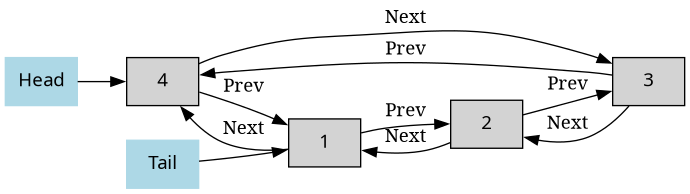
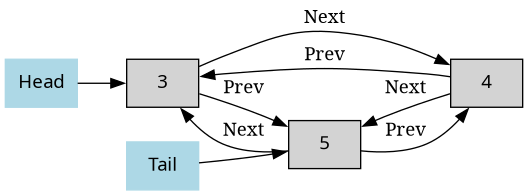
Add insert and delete functions for doublyCircularList; enhance main menu for user interaction

Changed region(s): [[0.0, 0.1546, 1.0, 0.9897], [0.5455, 0.0309, 0.6667, 0.1237], [0.3636, 0.2165, 0.3939, 0.2474]]

diff --git a/src/main.cpp b/src/main.cpp
@@ -6,14 +6,200 @@
 
 using namespace std;
 
-int main() {
-  doublyLinkedList lista;
-  lista.insertAtHead(1);
-  lista.insertAtHead(2);
-  lista.insertAtHead(3);
-  lista.insertAtHead(4);
+void displayMenu() {
+  cout << "\n===============================" << endl;
+  cout << "          Menu de Opciones     " << endl;
+  cout << "===============================" << endl;
+  cout << "1. Lista Enlazada (Simple)" << endl;
+  cout << "2. Lista Doblemente Enlazada" << endl;
+  cout << "3. Lista Doblemente Circular" << endl;
+  cout << "4. Salir" << endl;
+  cout << "Selecciona una opción: ";
+}
 
-  lista.generateGraphviz();
+void handleLinkedList(linkedList& ll) {
+  int choice, value, index;
+  cout << "\nOpciones de Lista Enlazada:" << endl;
+  cout << "1. Insertar al inicio" << endl;
+  cout << "2. Insertar en índice" << endl;
+  cout << "3. Insertar al final" << endl;
+  cout << "4. Eliminar cabeza" << endl;
+  cout << "5. Eliminar final" << endl;
+  cout << "6. Mostrar lista" << endl;
+  cout << "7. Buscar valor" << endl;
+  cout << "8. Obtener valor por índice" << endl;
+  cout << "9. Generar Graphviz" << endl;
+  cout << "Selecciona una opción: ";
+  cin >> choice;
+
+  switch (choice) {
+    case 1:
+      cout << "Valor a insertar: ";
+      cin >> value;
+      ll.insertAtHead(value);
+      break;
+    case 2:
+      cout << "Valor a insertar: ";
+      cin >> value;
+      cout << "Índice: ";
+      cin >> index;
+      ll.insertAtIndex(value, index);
+      break;
+    case 3:
+      cout << "Valor a insertar: ";
+      cin >> value;
+      ll.insertAtEnd(value);
+      break;
+    case 4:
+      ll.deleteHead();
+      break;
+    case 5:
+      ll.deleteEnd();
+      break;
+    case 6:
+      ll.display();
+      break;
+    case 7:
+      cout << "Valor a buscar: ";
+      cin >> value;
+      cout << "Posición: " << ll.search(value) << endl;
+      break;
+    case 8:
+      cout << "Índice: ";
+      cin >> index;
+      cout << "Valor: " << ll.get(index) << endl;
+      break;
+    case 9:
+      ll.generateGraphviz();
+      break;
+    default:
+      cout << "Opción no válida." << endl;
+  }
+}
+
+void handleDoublyLinkedList(doublyLinkedList& dll) {
+  int choice, value, index;
+  cout << "\nOpciones de Lista Doblemente Enlazada:" << endl;
+  cout << "1. Insertar al inicio" << endl;
+  cout << "2. Insertar en índice" << endl;
+  cout << "3. Insertar al final" << endl;
+  cout << "4. Eliminar cabeza" << endl;
+  cout << "5. Eliminar final" << endl;
+  cout << "6. Mostrar lista" << endl;
+  cout << "7. Buscar valor" << endl;
+  cout << "8. Obtener valor por índice" << endl;
+  cout << "9. Generar Graphviz" << endl;
+  cout << "Selecciona una opción: ";
+  cin >> choice;
+
+  switch (choice) {
+    case 1:
+      cout << "Valor a insertar: ";
+      cin >> value;
+      dll.insertAtHead(value);
+      break;
+    case 2:
+      cout << "Valor a insertar: ";
+      cin >> value;
+      cout << "Índice: ";
+      cin >> index;
+      dll.insertAtIndex(value, index);
+      break;
+    case 3:
+      cout << "Valor a insertar: ";
+      cin >> value;
+      dll.insertAtEnd(value);
+      break;
+    case 4:
+      dll.deleteHead();
+      break;
+    case 5:
+      dll.deleteEnd();
+      break;
+    case 6:
+      dll.display();
+      break;
+    case 7:
+      cout << "Valor a buscar: ";
+      cin >> value;
+      cout << "Posición: " << dll.search(value) << endl;
+      break;
+    case 8:
+      cout << "Índice: ";
+      cin >> index;
+      cout << "Valor: " << dll.get(index) << endl;
+      break;
+    case 9:
+      dll.generateGraphviz();
+      break;
+    default:
+      cout << "Opción no válida." << endl;
+  }
+}
+
+void handleDoublyCircularList(doublyCircularList& dcl) {
+  int choice, value;
+  cout << "\nOpciones de Lista Doblemente Circular:" << endl;
+  cout << "1. Insertar al inicio" << endl;
+  cout << "2. Insertar al final" << endl;
+  cout << "3. Eliminar cabeza" << endl;
+  cout << "4. Eliminar final" << endl;
+  cout << "5. Generar Graphviz" << endl;
+  cout << "Selecciona una opción: ";
+  cin >> choice;
+
+  switch (choice) {
+    case 1:
+      cout << "Valor a insertar: ";
+      cin >> value;
+      dcl.insertAtHead(value);
+      break;
+    case 2:
+      cout << "Valor a insertar: ";
+      cin >> value;
+      dcl.insertAtTail(value);
+      break;
+    case 3:
+      dcl.deleteAtHead();
+      break;
+    case 4:
+      dcl.deleteAtTail();
+      break;
+    case 5:
+      dcl.generateGraphviz();
+      break;
+    default:
+      cout << "Opción no válida." << endl;
+  }
+}
+
+int main() {
+  linkedList ll;
+  doublyLinkedList dll;
+  doublyCircularList dcl;
+
+  int choice;
+  while (true) {
+    displayMenu();
+    cin >> choice;
+
+    switch (choice) {
+      case 1:
+        handleLinkedList(ll);
+        break;
+      case 2:
+        handleDoublyLinkedList(dll);
+        break;
+      case 3:
+        handleDoublyCircularList(dcl);
+        break;
+      case 4:
+        cout << "Saliendo del programa..." << endl;
+        return 0;
+      default:
+        cout << "Opción no válida. Por favor intenta de nuevo." << endl;
+    }
+  }
 
   return 0;
 }

diff --git a/src/doublyCircularList.cpp b/src/doublyCircularList.cpp
@@ -18,7 +18,8 @@ doublyCircularList::~doublyCircularList() {
 }
 
 int doublyCircularList::insertAtHead(int id) {
-  Nodo* nuevo = new Nodo(id);
+  Nodo* nuevo = new (std::nothrow) Nodo(id);
+  if (!nuevo) return -1;
   if (tail == nullptr) {
     nuevo->next = nuevo;
     nuevo->prev = nuevo;
@@ -53,6 +54,44 @@ int doublyCircularList::deleteAtHead() {
     head = tail->next;
     return 1;
   }
+}
+
+int doublyCircularList::insertAtTail(int id) {
+  Nodo* nuevo = new (std::nothrow) Nodo(id);
+  if (!nuevo) return -1;
+
+  if (tail == nullptr) {
+    head = nuevo;
+    tail = nuevo;
+    nuevo->next = nuevo;
+    nuevo->prev = nuevo;
+  } else {
+    head->prev = nuevo;
+    tail->next = nuevo;
+
+    nuevo->next = head;
+    nuevo->prev = tail;
+
+    tail = nuevo;
+  }
+  return 1;
+}
+
+int doublyCircularList::deleteAtTail() {
+  if (tail == nullptr) {
+    cout << "Error, lista vacia" << endl;
+    return -1;
+  } else if (tail == head) {
+    delete tail;
+    head = nullptr;
+    tail = nullptr;
+  } else {
+    head->prev = tail->prev;
+    tail->prev->next = head;
+    delete tail;
+    tail = head->prev;
+  }
+  return 1;
 }
 
 void doublyCircularList::generateGraphviz() {

diff --git a/include/doublyCircularList.h b/include/doublyCircularList.h
@@ -21,6 +21,10 @@ class doublyCircularList {
   ~doublyCircularList();
   int insertAtHead(int val);
   int deleteAtHead();
+  int insertAtTail(int val);
+  int deleteAtTail();
+  int insertAtIndex(int index, int val);
+  int deleteAtIndex(int index);
   void generateGraphviz();
 };
 
